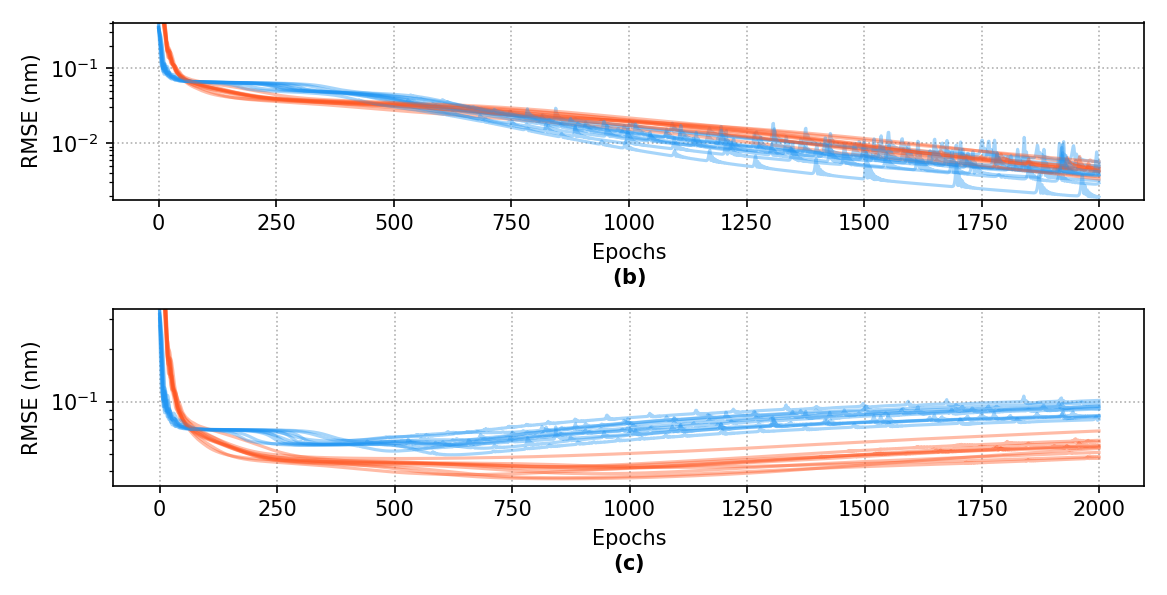
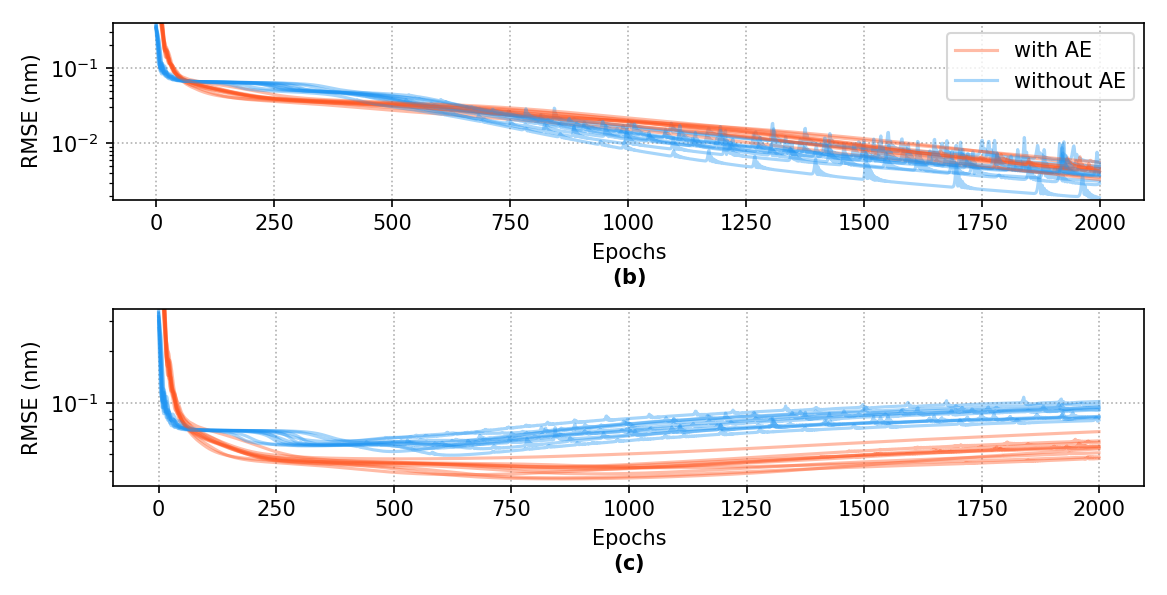
legend

diff --git a/ML_AutoEncoder_test.py b/ML_AutoEncoder_test.py
@@ -132,6 +132,7 @@ plt.yscale('log')
 plt.xlabel("Epochs\n"+ r"$\bf{(b)}$")
 plt.ylabel("RMSE (nm)")
 plt.grid(linestyle=":")
+
 plt.subplot(212)
 plt.yscale('log')
 plt.xlabel("Epochs\n"+ r"$\bf{(c)}$")
@@ -161,10 +162,16 @@ for i in range(10):
         else:
             t = data[:2]
 
+        label = "with AE"
+        if i!=0:
+            label = None
+
         plt.subplot(211)
-        plt.plot(t[0], c='#ff5722', alpha=0.4, label="with AE") # 0 for train
+        plt.plot(t[0], c='#ff5722', alpha=0.4, label=label) # 0 for train
+        plt.legend()
+        
         plt.subplot(212)
-        plt.plot(t[1], c='#ff5722', alpha=0.4, label="with AE") # 1 for test
+        plt.plot(t[1], c='#ff5722', alpha=0.4) # 1 for test
         plt.tight_layout()
         plt.pause(0.01)
 
@@ -176,16 +183,20 @@ for i in range(10):
             t = test(False)
         else:
             t = data[2:]
-            
+        
+        label="without AE"
+        if i!=0:
+            label = None
         plt.subplot(211)
-        plt.plot(t[0], c='#2196f3', alpha=0.4, label="without AE") # 0 for train
+        plt.plot(t[0], c='#2196f3', alpha=0.4, label=label) # 0 for train
+        plt.legend()
+
         plt.subplot(212)
-        plt.plot(t[1], c='#2196f3', alpha=0.4, label="without AE") # 1 for test
+        plt.plot(t[1], c='#2196f3', alpha=0.4) # 1 for test
         plt.tight_layout()
         plt.pause(0.01)
 
         writer.writerow(t[0])
         writer.writerow(t[1])
-
 
 plt.show()
